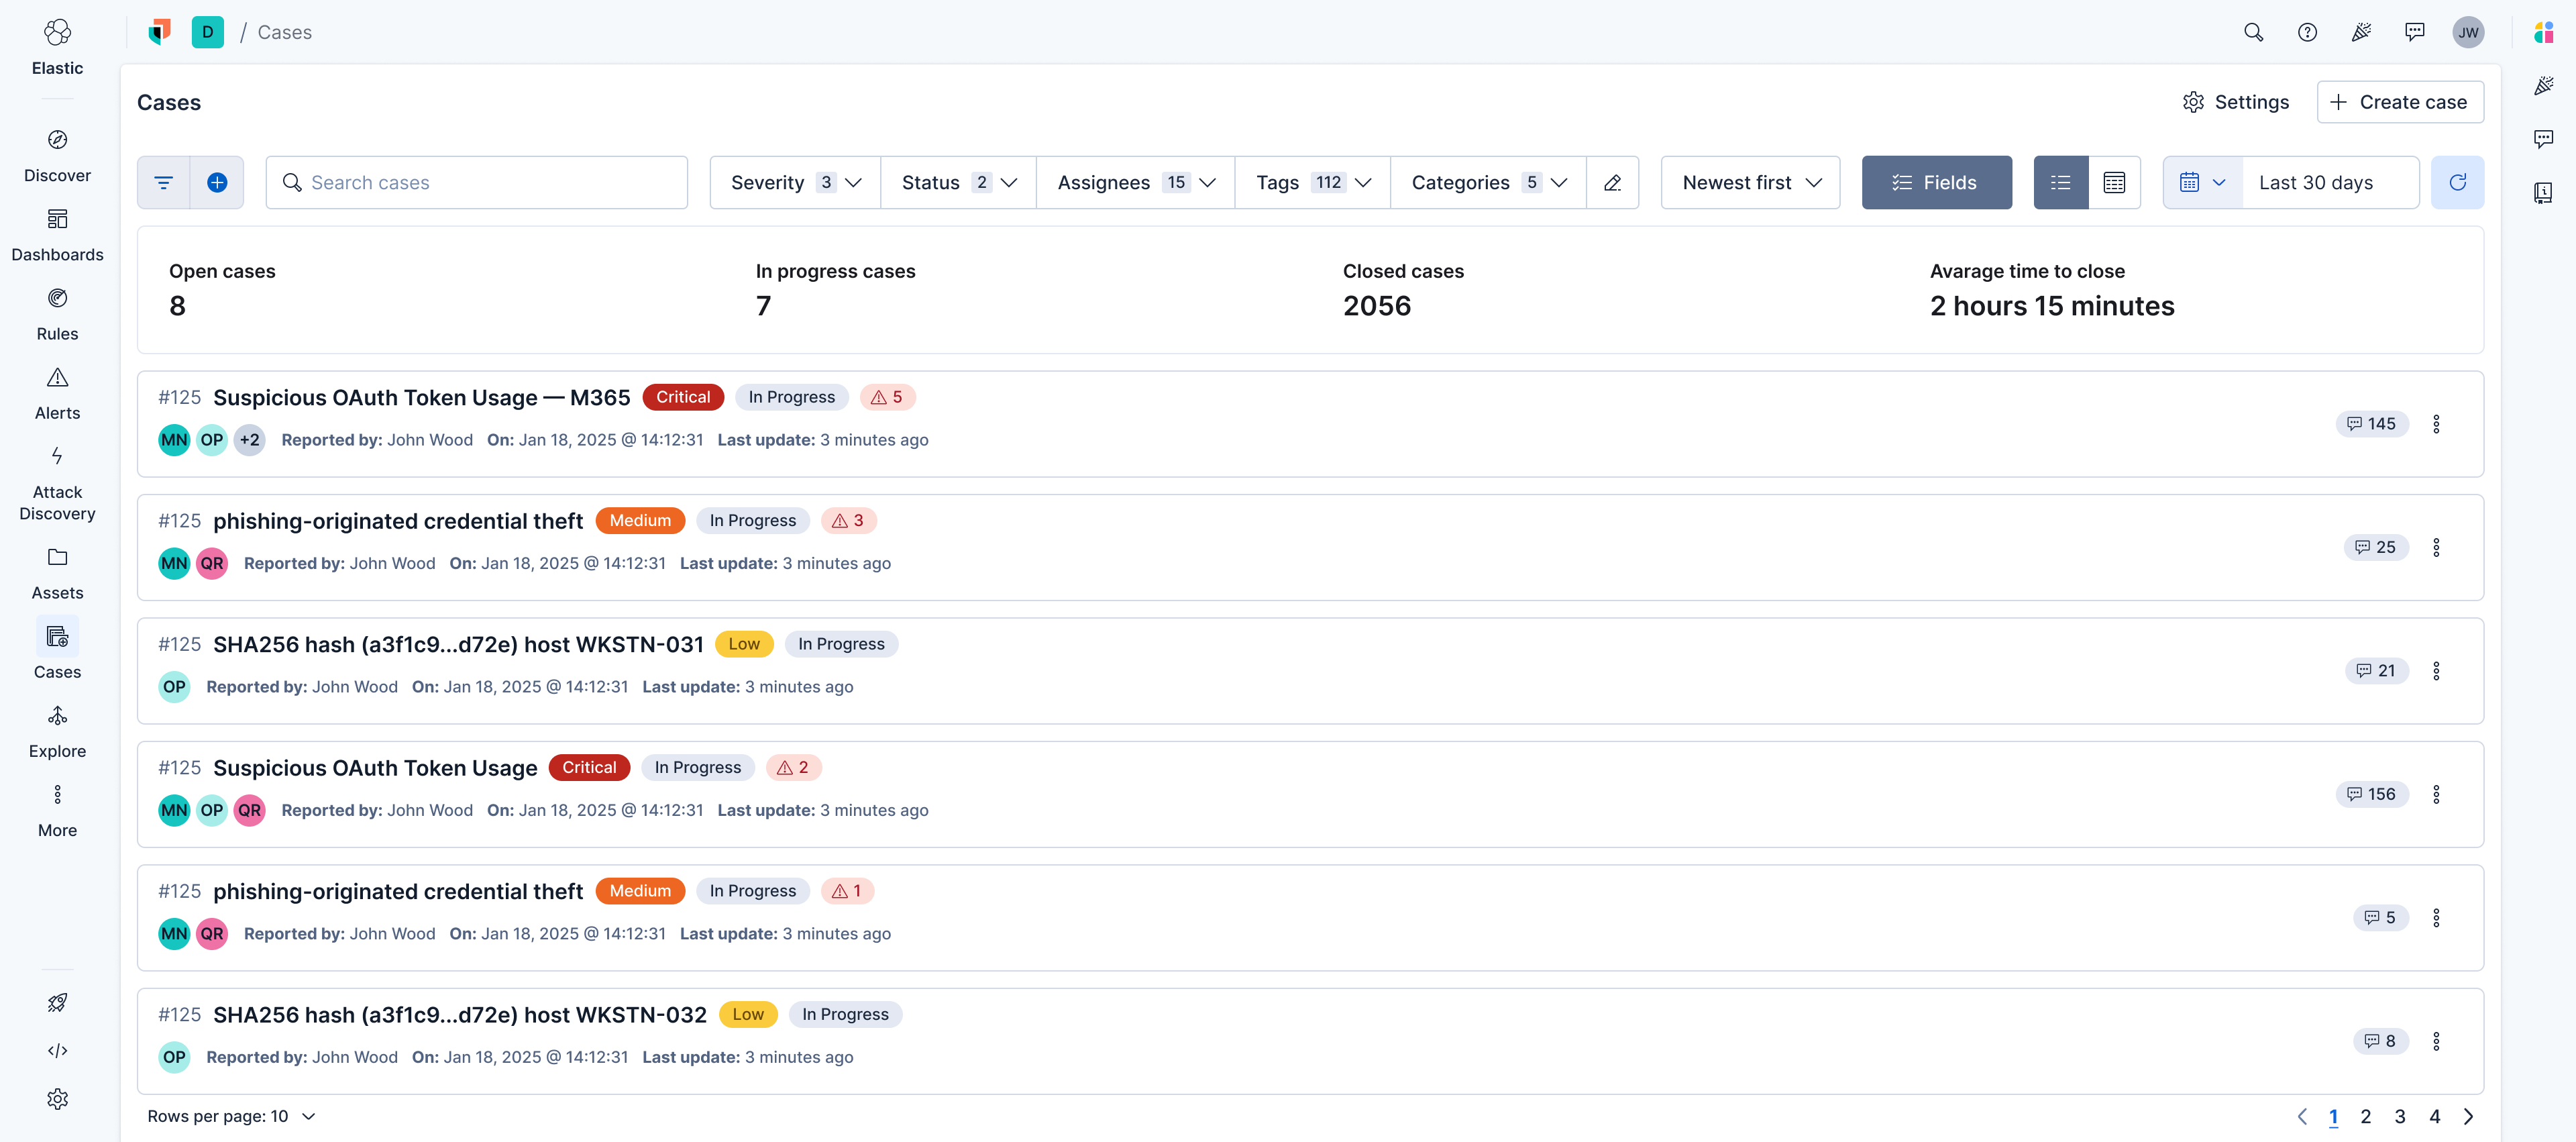
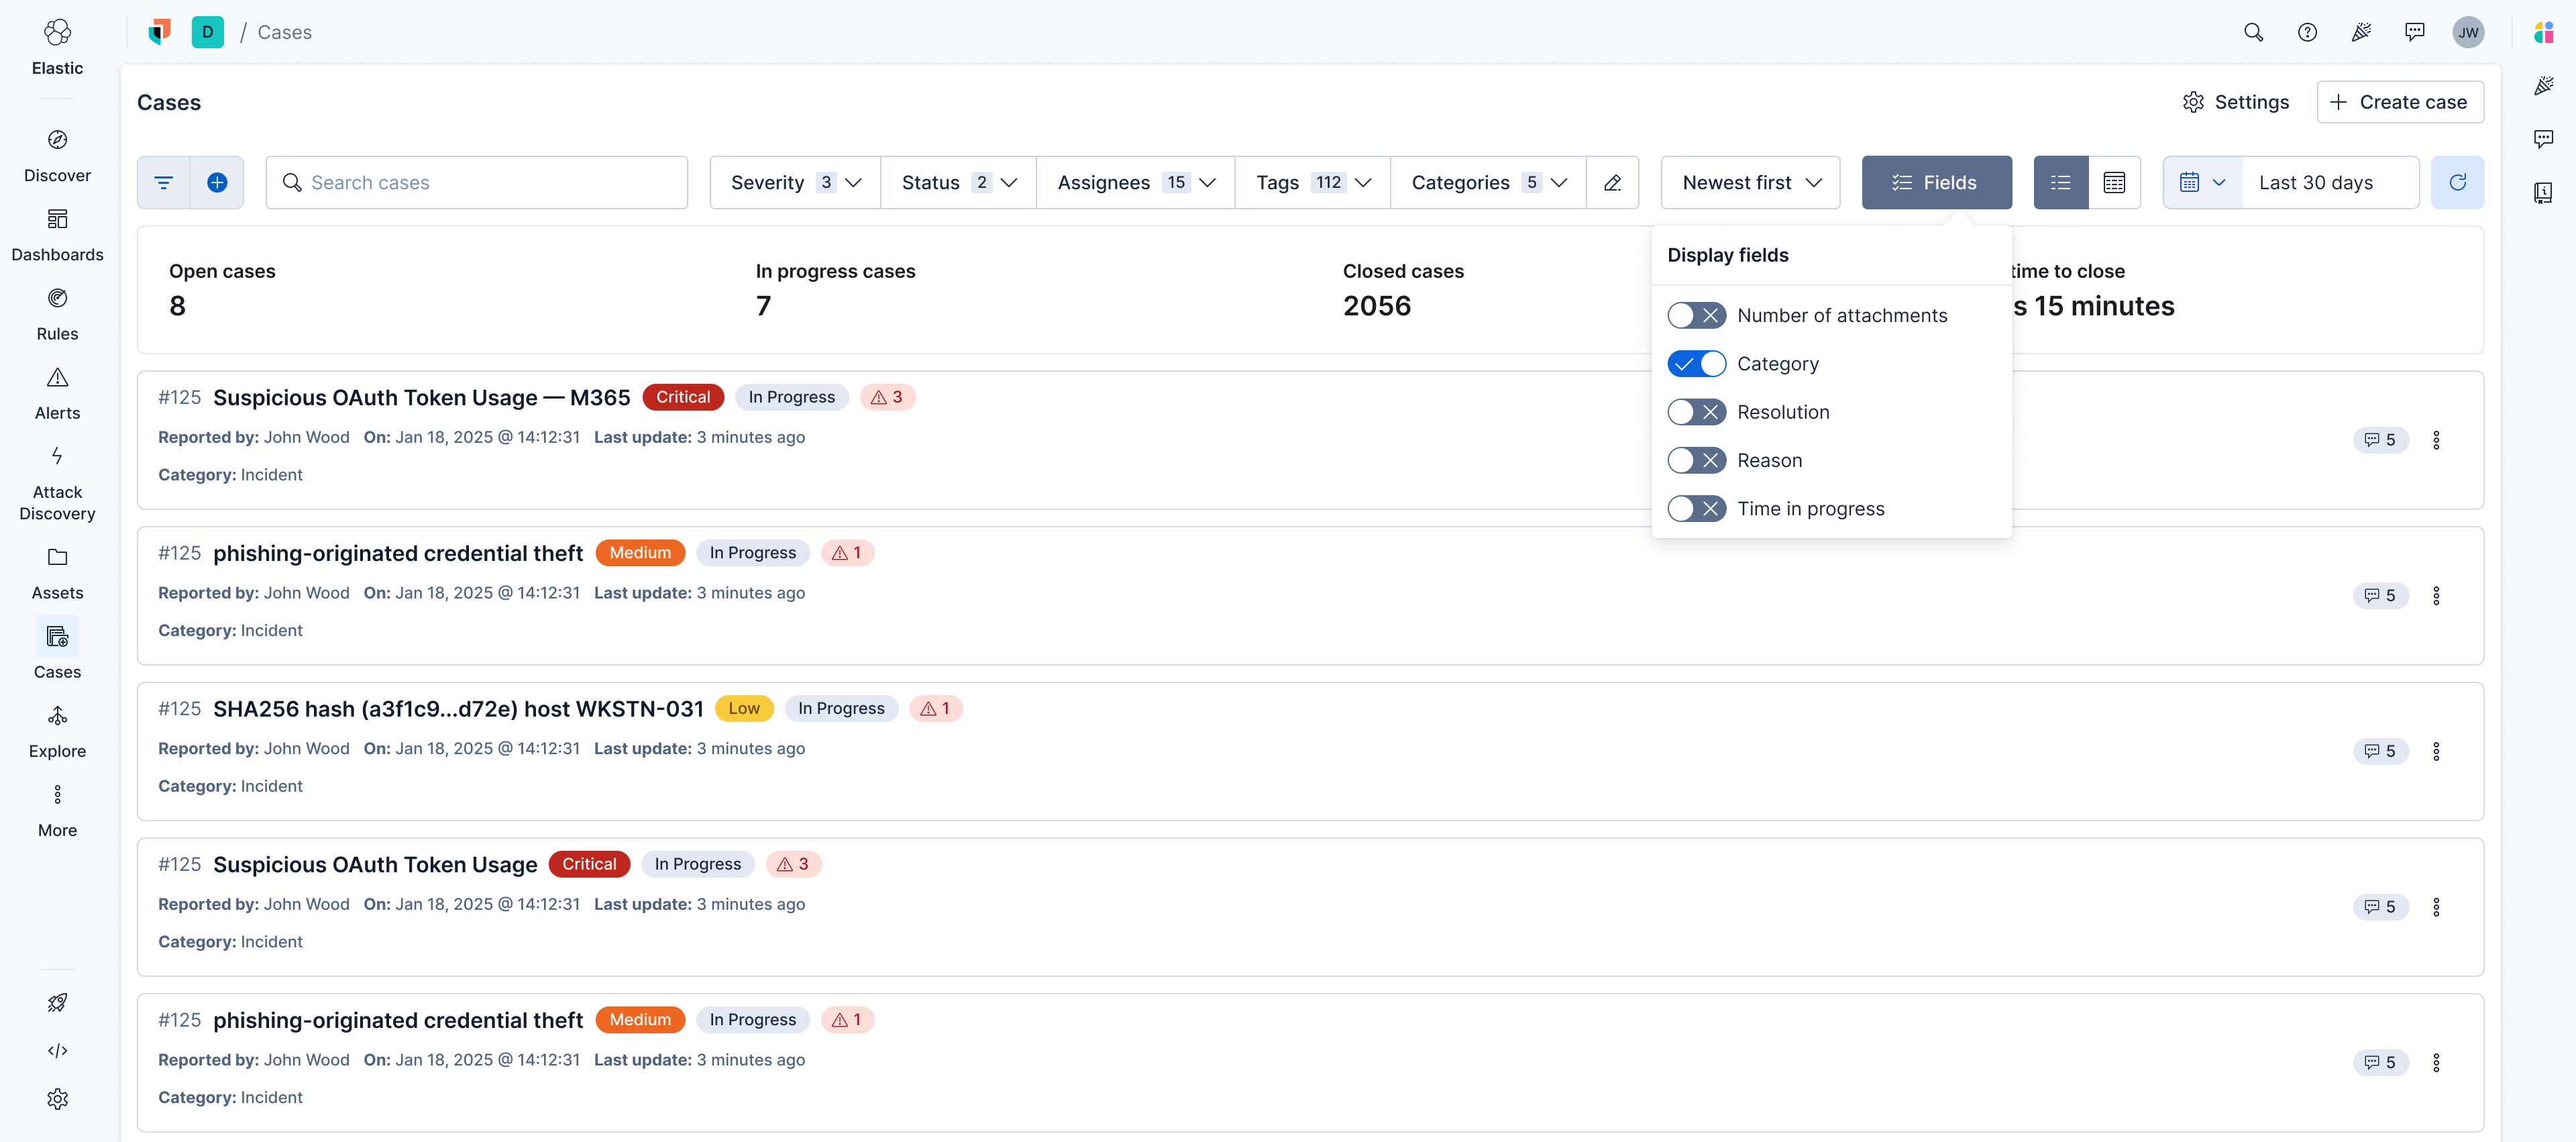
fix

diff --git a/case-studies/karmen.html b/case-studies/karmen.html
@@ -103,7 +103,7 @@
               </div>
               <div class="analyst-experience-media analyst-experience-media--portrait">
                 <img
-                  src="../images/karmen/splashscreen.png"
+                  src="../images/karmen/splashscreen.jpg"
                   alt="KARMEN splash screen — Your Security in our heart"
                   width="522"
                   height="1024"
@@ -125,7 +125,7 @@
               </div>
               <div class="analyst-experience-media analyst-experience-media--portrait">
                 <img
-                  src="../images/karmen/home.png"
+                  src="../images/karmen/home.jpg"
                   alt="KARMEN home — validate suspicious message with paste or screenshot upload"
                   width="522"
                   height="1024"
@@ -147,7 +147,7 @@
               </div>
               <div class="analyst-experience-media analyst-experience-media--portrait">
                 <img
-                  src="../images/karmen/validation.png"
+                  src="../images/karmen/validation.jpg"
                   alt="KARMEN validation — message analysis progress with natural language and reputation checks"
                   width="522"
                   height="1024"
@@ -169,7 +169,7 @@
               </div>
               <div class="analyst-experience-media analyst-experience-media--portrait">
                 <img
-                  src="../images/karmen/result.png"
+                  src="../images/karmen/result.jpg"
                   alt="KARMEN result — 95% SPAM verdict with guidance and report action"
                   width="522"
                   height="1024"

diff --git a/styles.css b/styles.css
@@ -1622,6 +1622,12 @@ p {
   max-width: min(100%, 160px);
 }
 
+.story-project--karmen .analyst-experience-media--portrait img {
+  width: auto;
+  max-width: 100%;
+  height: auto;
+}
+
 .story-band--g100 .case-source a {
   color: var(--text-on-dark-secondary);
   border-color: var(--border-on-dark);

diff --git a/index.html b/index.html
@@ -225,7 +225,7 @@
               >
                 <img
                   class="project-card-teaser-img"
-                  src="./images/karmen-teaser-screens.png"
+                  src="./images/karmen/app-screens.jpg"
                   alt=""
                   width="1024"
                   height="512"